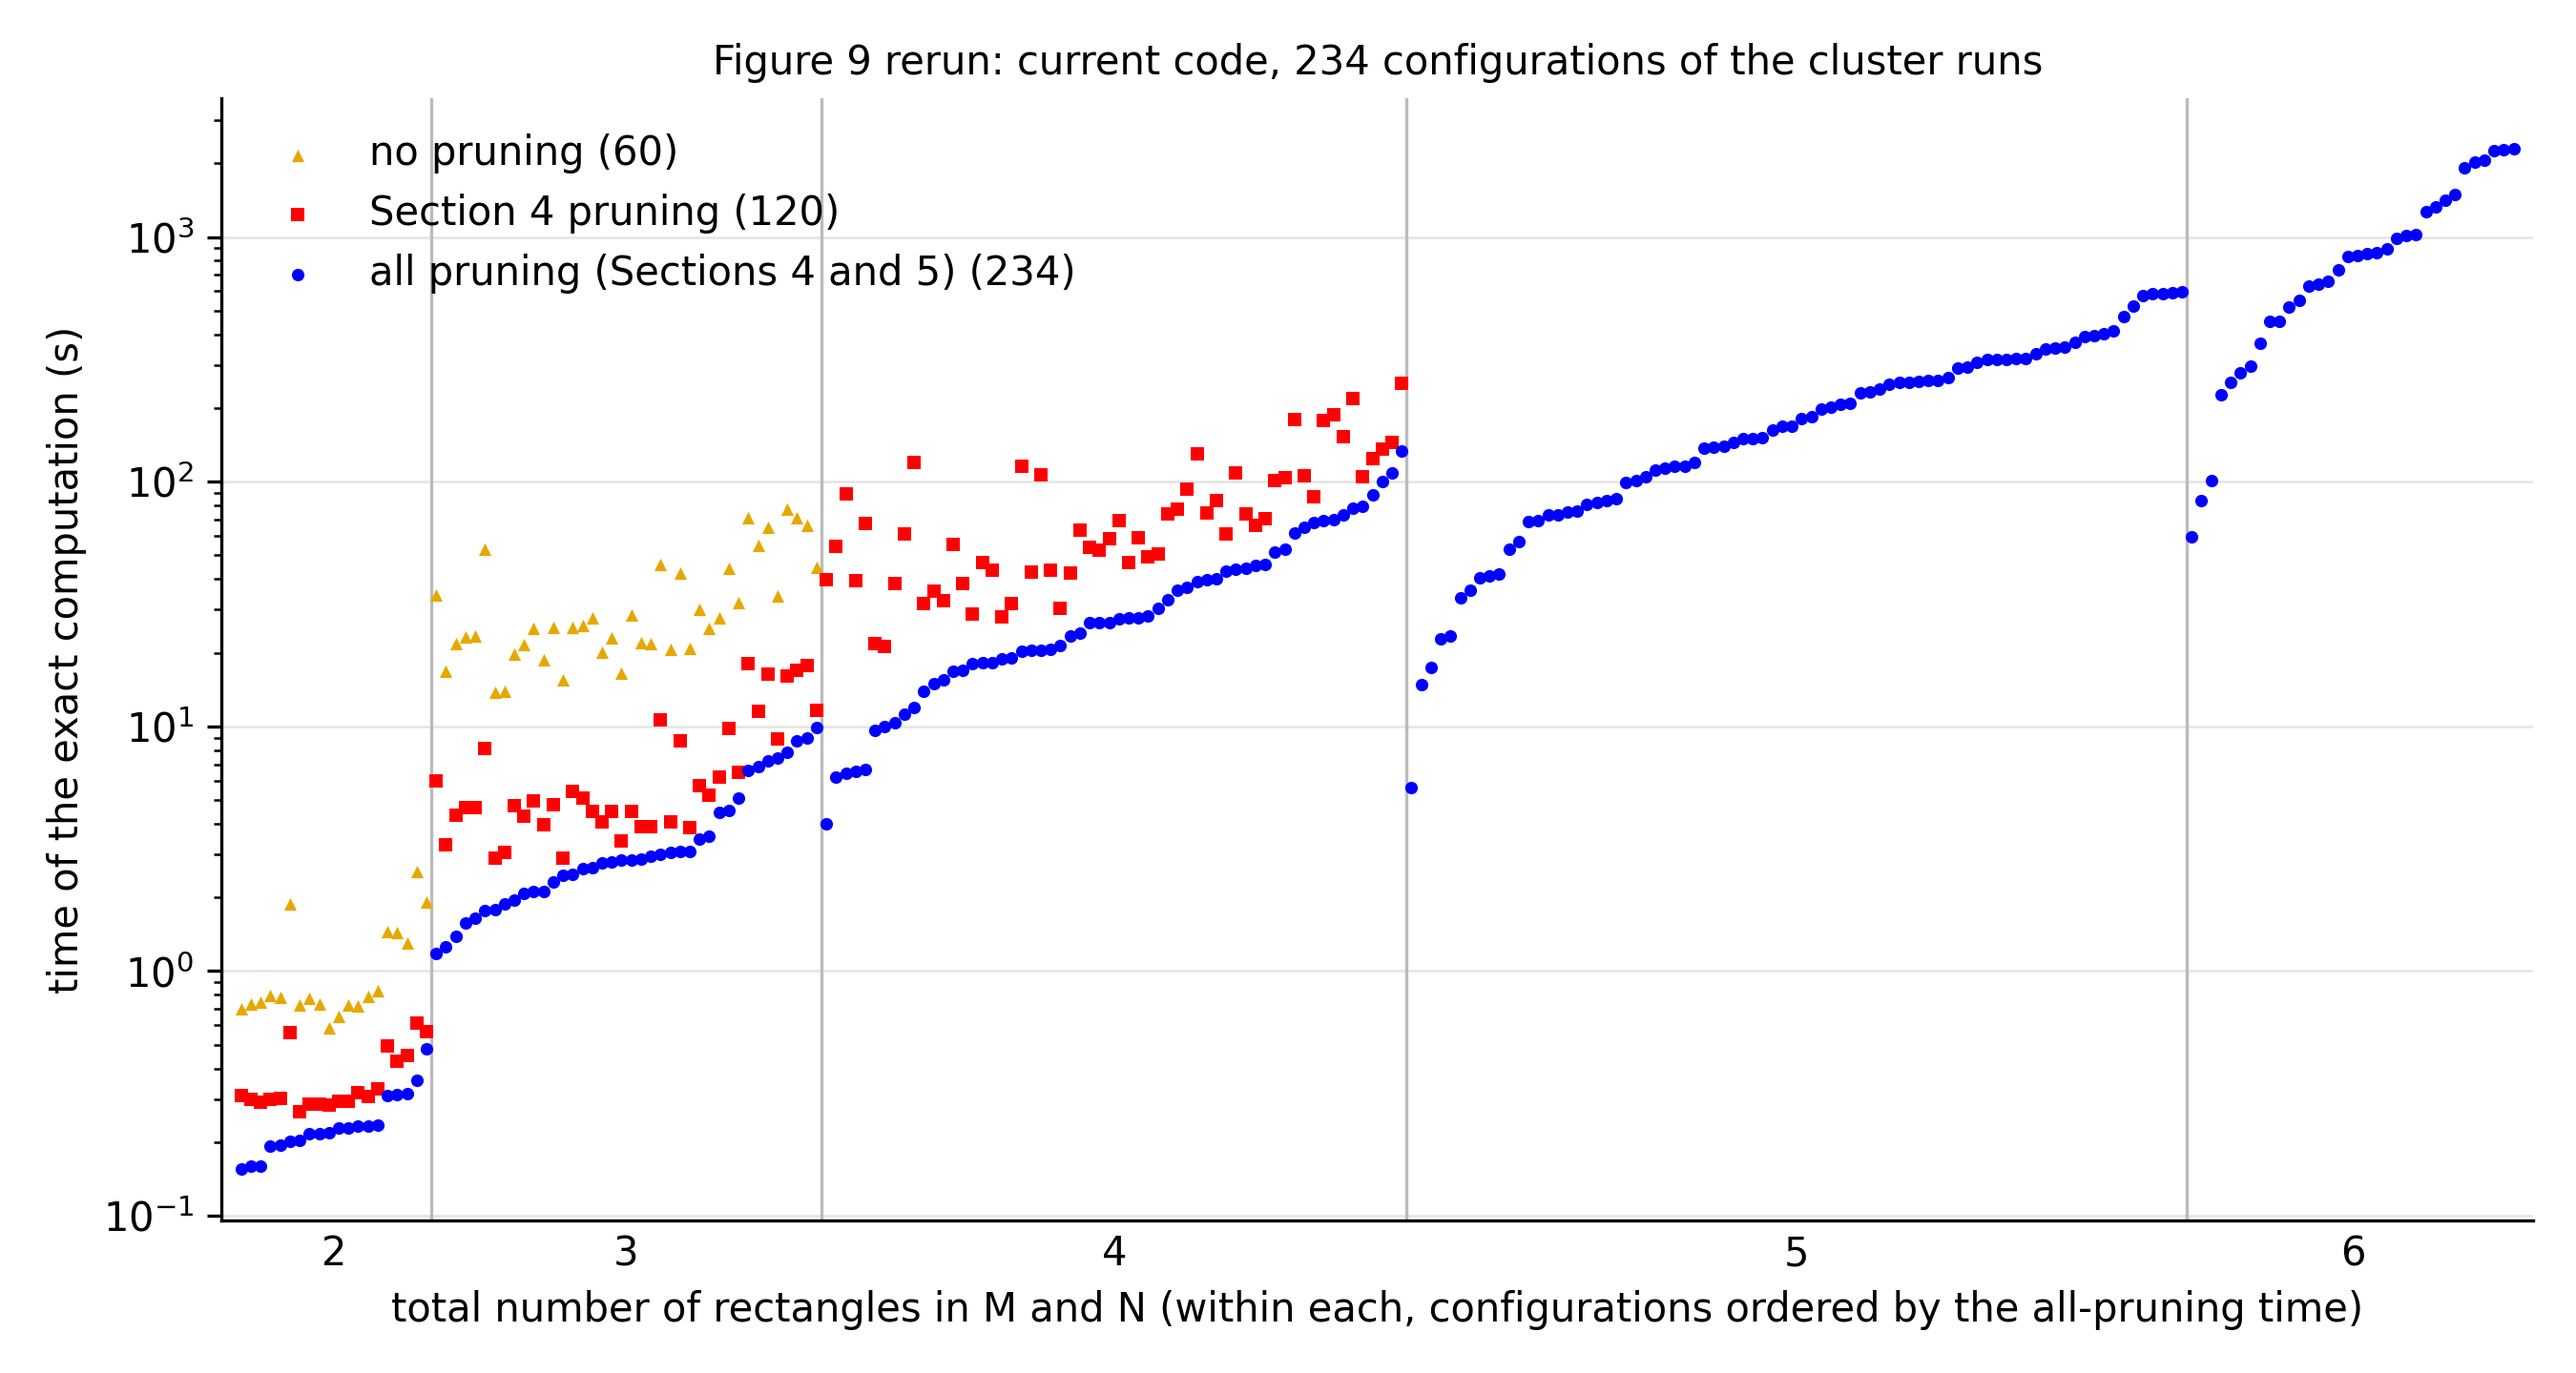
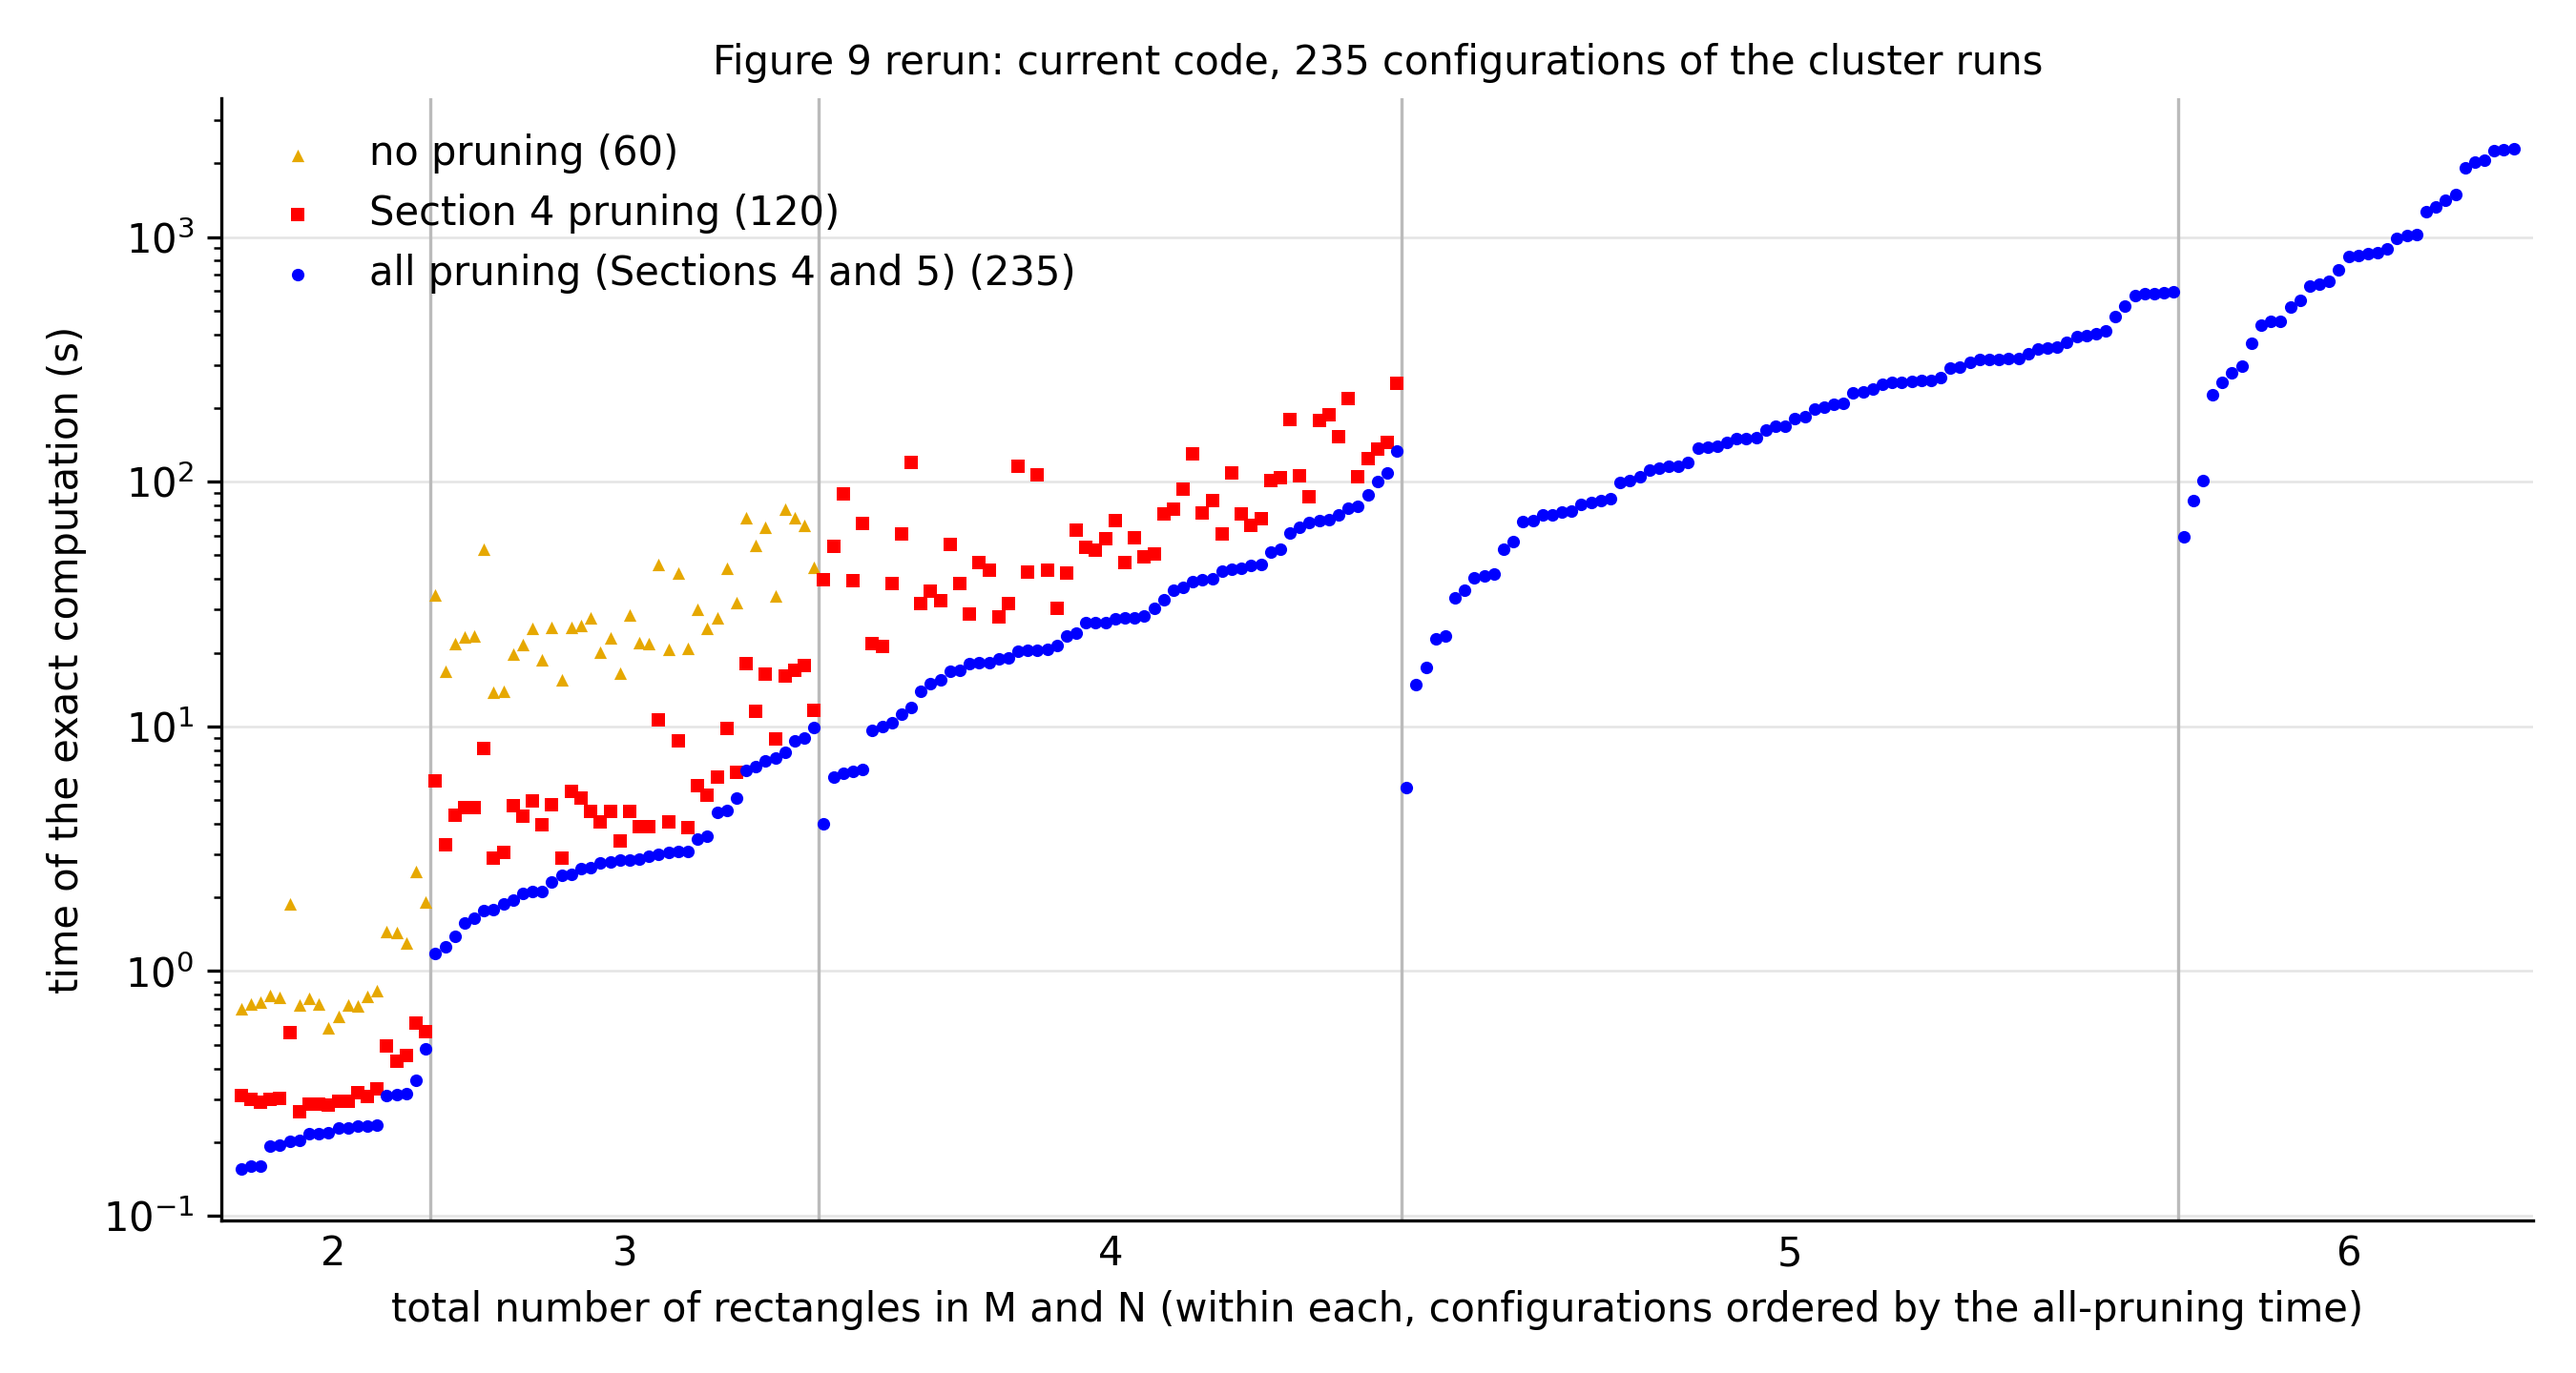
Run seed 3 of the 3+3 split, which the cluster never ran
The cluster results have seeds 3-7 of every six-rectangle split except
3+3, which lacks seed 3. A seed draws the same six rectangles for every
split, and seed 3 gives the lowest ratio in the other splits, so without it
the 3+3 mean of Figure 12(b) was too high. run_local.py now also runs the
configurations in EXTRA_CONFIGS, here 3+3 seed 3 with all pruning, and
results/laptop_timings/ holds its log and the updated timings, summary and
figures: 415 jobs, 235 configurations with all pruning. In the paper,
Figure 12 uses all 235; Figures 9-11 keep the 234 the cluster ran.

diff --git a/cluster/run_local.py b/cluster/run_local.py
@@ -5,8 +5,8 @@ Rerun the timing experiment of Figures 9-12 on this machine, in parallel and res
     python cluster/run_local.py                  the core set (about 5 hours on an M2 Pro)
     python cluster/run_local.py --set extra      no pruning at 4 rectangles, Section 4 at 5
 
-A job is one (M, N, seed, pruning variant) of the cluster runs in results/cluster_timings,
-run as `run_example.py --pruning VARIANT --verbose`.  Its log goes to
+A job is one (M, N, seed, pruning variant) of the cluster runs in results/cluster_timings
+(or of EXTRA_CONFIGS, which the cluster never ran), run as `run_example.py --pruning VARIANT --verbose`.  Its log goes to
 OUT/logs/VARIANT/M_N_seed.txt, in the format cluster/parse_logs.py reads, and the output of
 /usr/bin/time -l (peak memory) to the .err file next to it.  The jobs run on a snapshot of
 Code/ at the current commit (OUT/src), so editing the code during a run does not affect it.
@@ -51,6 +51,10 @@ BYTES_PER_LINE = 450
 # a job missing from expected_lines.csv is budgeted at the top of that range
 LINES_PER_CLUSTER_LINE = 0.5
 BASE_GB = 0.15
+# configurations the cluster never ran, with the lines budgeted for each if expected_lines.csv
+# lacks them: six_results_3_Nov.csv has seeds 3-7 of every 6-rectangle split except seed 3 of 3+3
+# (budget: the largest 3+3 job)
+EXTRA_CONFIGS = {(3, 3, 3): 35_000_000}
 
 
 def log(out, msg):
@@ -94,12 +98,17 @@ class Job:
 def make_jobs(sets, out):
     lines, cluster = expected_lines(out), cluster_lines()
     jobs = []
-    for M, N, seed in sorted({key[:3] for key in cluster}):
+    for M, N, seed in sorted({key[:3] for key in cluster} | set(EXTRA_CONFIGS)):
         for s in sets:
             for variant, totals in SETS[s]:
                 if M + N in totals:
                     key = (M, N, seed, variant)
-                    n = lines[key] if key in lines else round(LINES_PER_CLUSTER_LINE * cluster[key])
+                    if key in lines:
+                        n = lines[key]
+                    elif key in cluster:
+                        n = round(LINES_PER_CLUSTER_LINE * cluster[key])
+                    else:
+                        n = EXTRA_CONFIGS[(M, N, seed)]
                     jobs.append(Job(M, N, seed, variant, n, out))
     return sorted(jobs, key=lambda j: -j.seconds)
 
